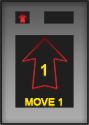
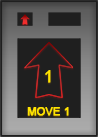
Few small fixes

diff --git a/src/main/java/inf112/RoboRally/app/views/cards/CardSlotUI.java b/src/main/java/inf112/RoboRally/app/views/cards/CardSlotUI.java
@@ -13,12 +13,12 @@ public class CardSlotUI extends Table {
     public CardSlotUI() {
         cardSlot = new Table();
         cardSlot.setFillParent(true);
-        cardSlot.bottom().padBottom(7);
+        cardSlot.bottom().padBottom(8);
 
         Texture emptyCardTexture = new Texture("Images/emptySmallCard.png");
         emptyCardTexture.setFilter(Texture.TextureFilter.Linear, Texture.TextureFilter.Linear);
 
-        Texture CardTexture = new Texture("Images/Move1SmallCard.png");
+        Texture CardTexture = new Texture("Images/MoveBackSmallCard.png");
         CardTexture.setFilter(Texture.TextureFilter.Linear, Texture.TextureFilter.Linear);
 
         cardImage = new Image(emptyCardTexture);
@@ -28,15 +28,15 @@ public class CardSlotUI extends Table {
         cardImage5 = new Image(CardTexture);
 
 
-        cardSlot.add(cardImage).padRight(20);
-        cardSlot.add(cardImage2).padRight(20);
+        cardSlot.add(cardImage).padRight(23);
+        cardSlot.add(cardImage2).padRight(23);
         cardSlot.add(cardImage3);
-        cardSlot.add(cardImage4).padLeft(20);
-        cardSlot.add(cardImage5).padLeft(20);
+        cardSlot.add(cardImage4).padLeft(23);
+        cardSlot.add(cardImage5).padLeft(23);
     }
 
     public void changeImage (Actor oldActor, Actor newActor) {
-        cardSlot.getCell(oldActor).clearActor().setActor(newActor).fill(false, true).padRight(109);
+        cardSlot.getCell(oldActor).clearActor().setActor(newActor).fill().padRight(121);
     }
 
     public void resetImages () {

diff --git a/src/main/java/inf112/RoboRally/app/views/cards/SmallCard.java b/src/main/java/inf112/RoboRally/app/views/cards/SmallCard.java
@@ -39,7 +39,7 @@ public class SmallCard extends Group {
 
         Label priorityNumber = new Label(String.format("%04d", priority), skin);
         priorityNumber.setFontScale(1/5f);
-        priorityNumber.setPosition(46, 73);
+        priorityNumber.setPosition(52, 83);
 
         Group cardGroup = new Group();
 
